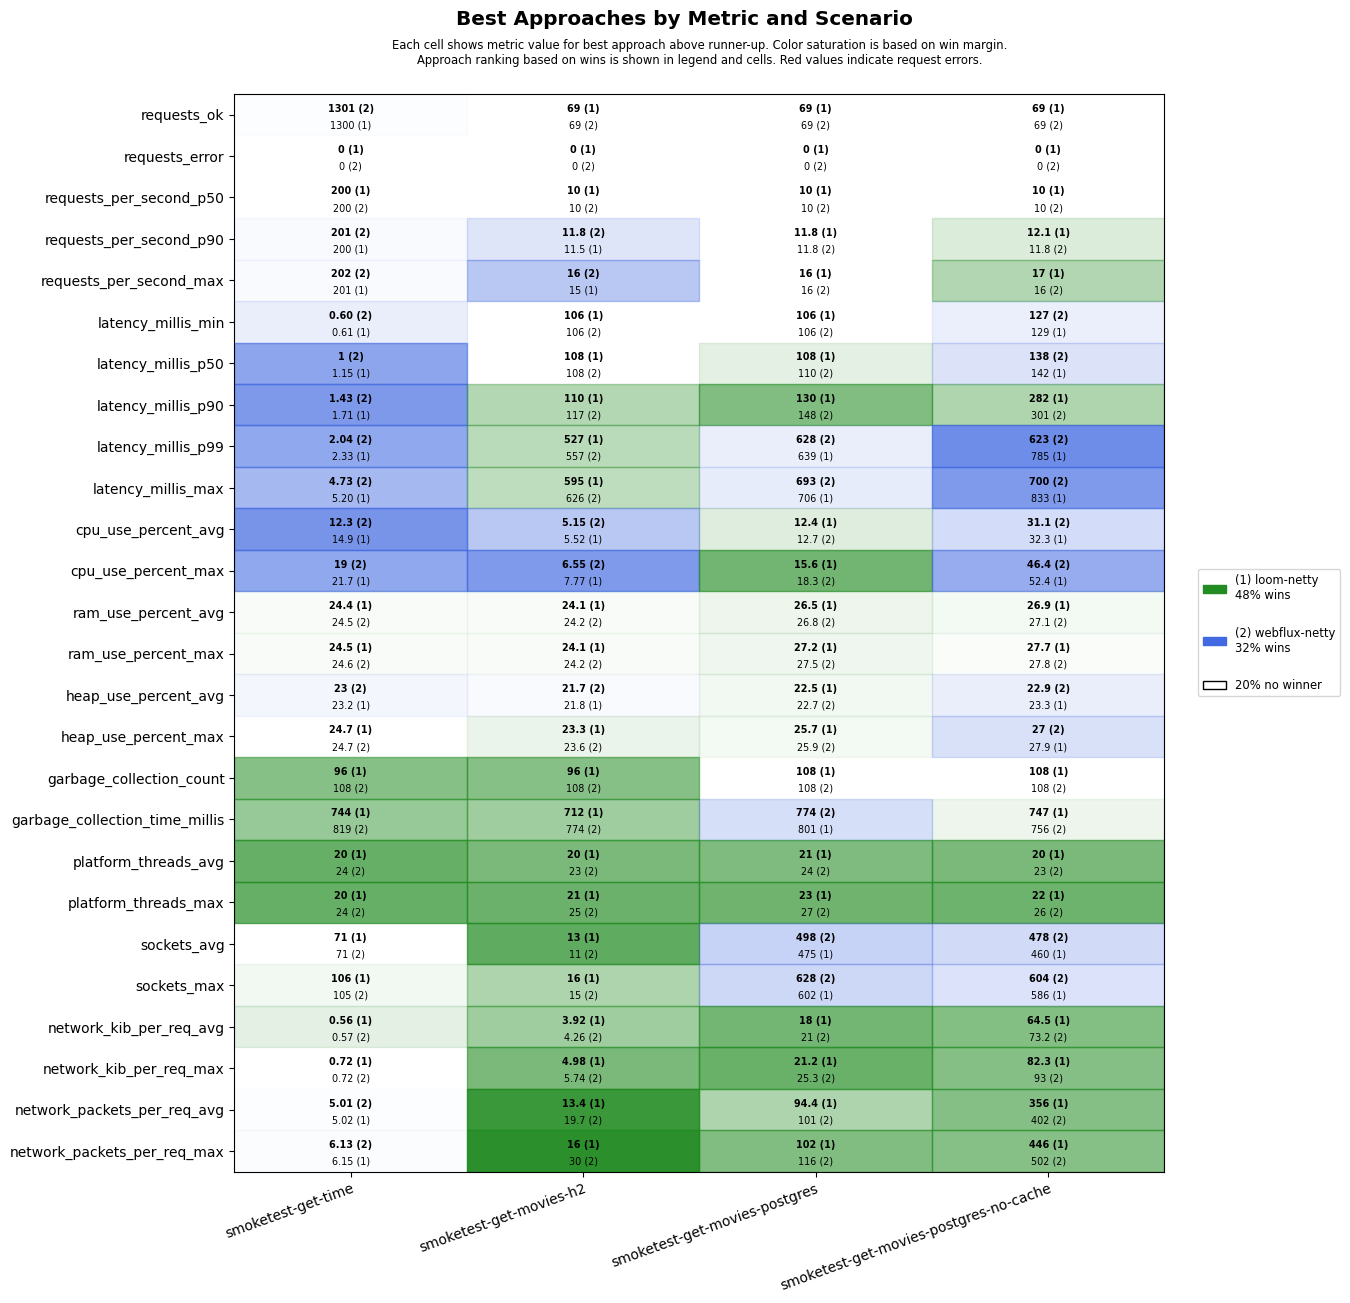
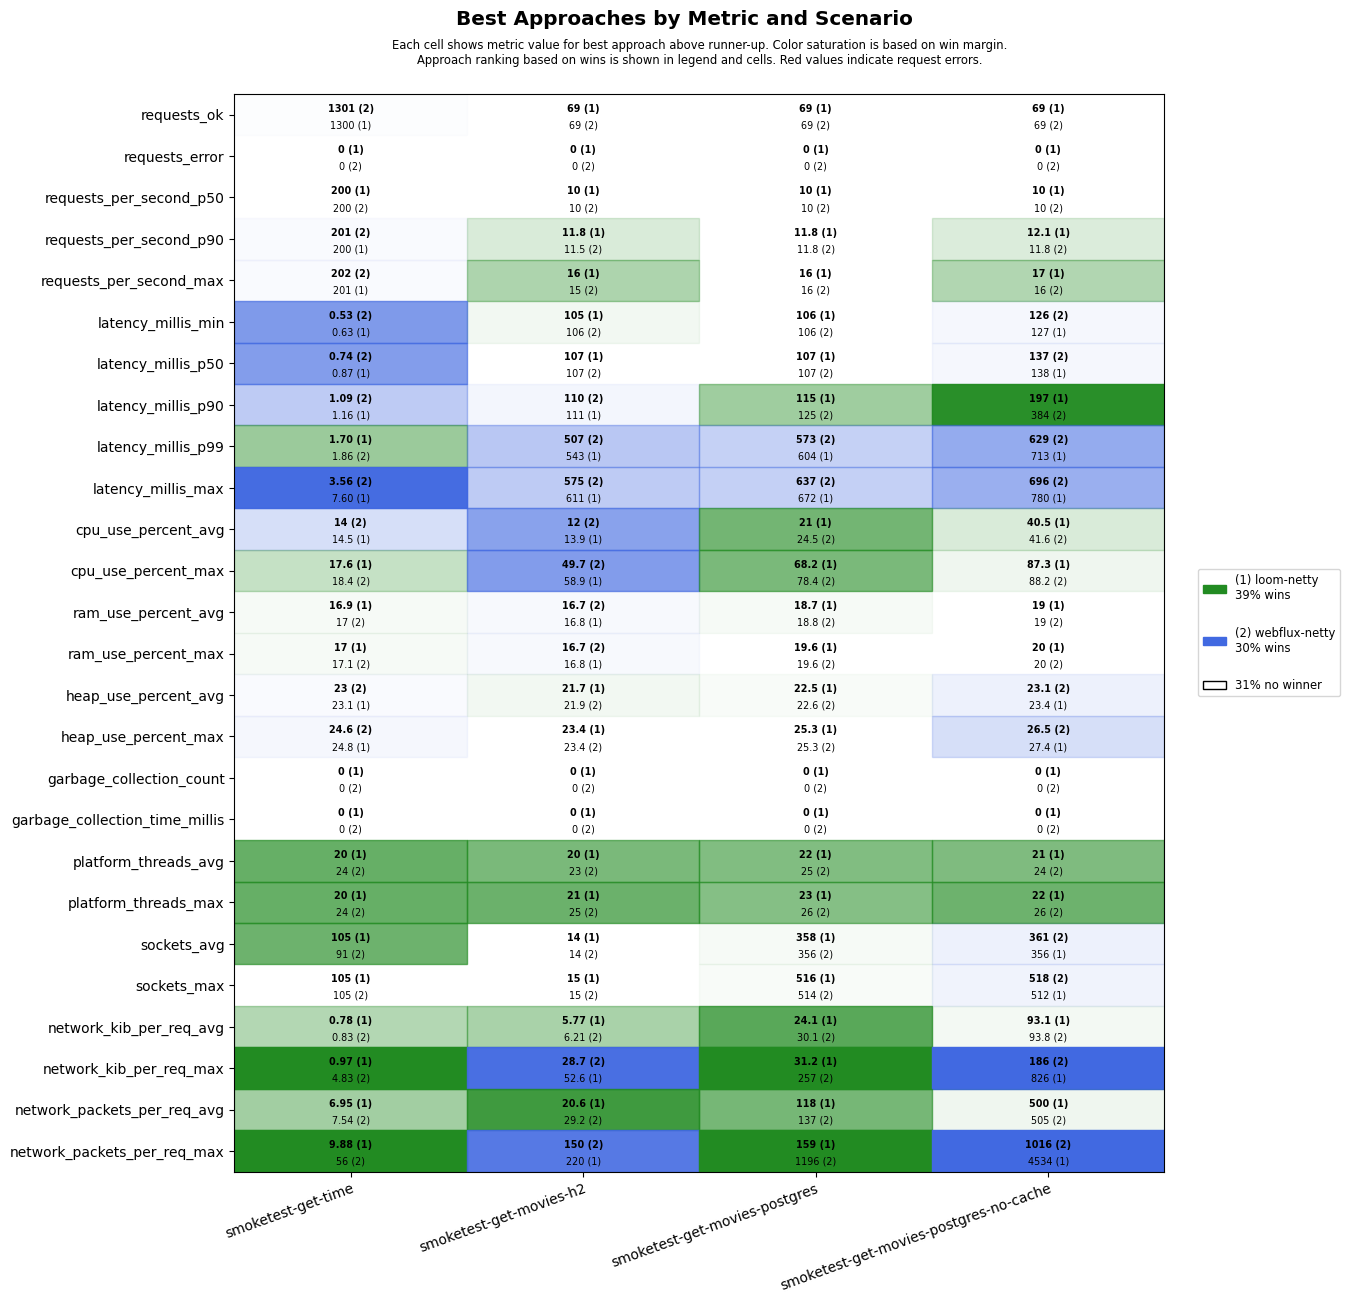
Apply automatic changes

diff --git a/results/ci/scenarios-smoketest/ubuntu-24.04/java-25/results.md b/results/ci/scenarios-smoketest/ubuntu-24.04/java-25/results.md
@@ -4,9 +4,9 @@
 
 | **Name**                | **Value** |
 |-------------------------|-----------|
-| **Start (UTC)** | 2026-06-11 17:25:33 |
-| **End (UTC)** | 2026-06-11 17:32:33 |
-| **Duration (hh:mm:ss)** | 00:07:00 |
+| **Start (UTC)** | 2026-06-14 20:54:15 |
+| **End (UTC)** | 2026-06-14 21:01:52 |
+| **Duration (hh:mm:ss)** | 00:07:37 |
 
 ## System Specs
 
@@ -19,7 +19,7 @@
 | **Kernel** | 6.17.0-1018-azure |
 | **CPU** | AMD EPYC 9V74 80-Core Processor |
 | **CPU Cores** | 4 |
-| **RAM** | 15Gi total, 11Gi available |
+| **RAM** | 15Gi total, 13Gi available |
 | **Disk** | 158G total, 98G available |
 
 ## Scenarios